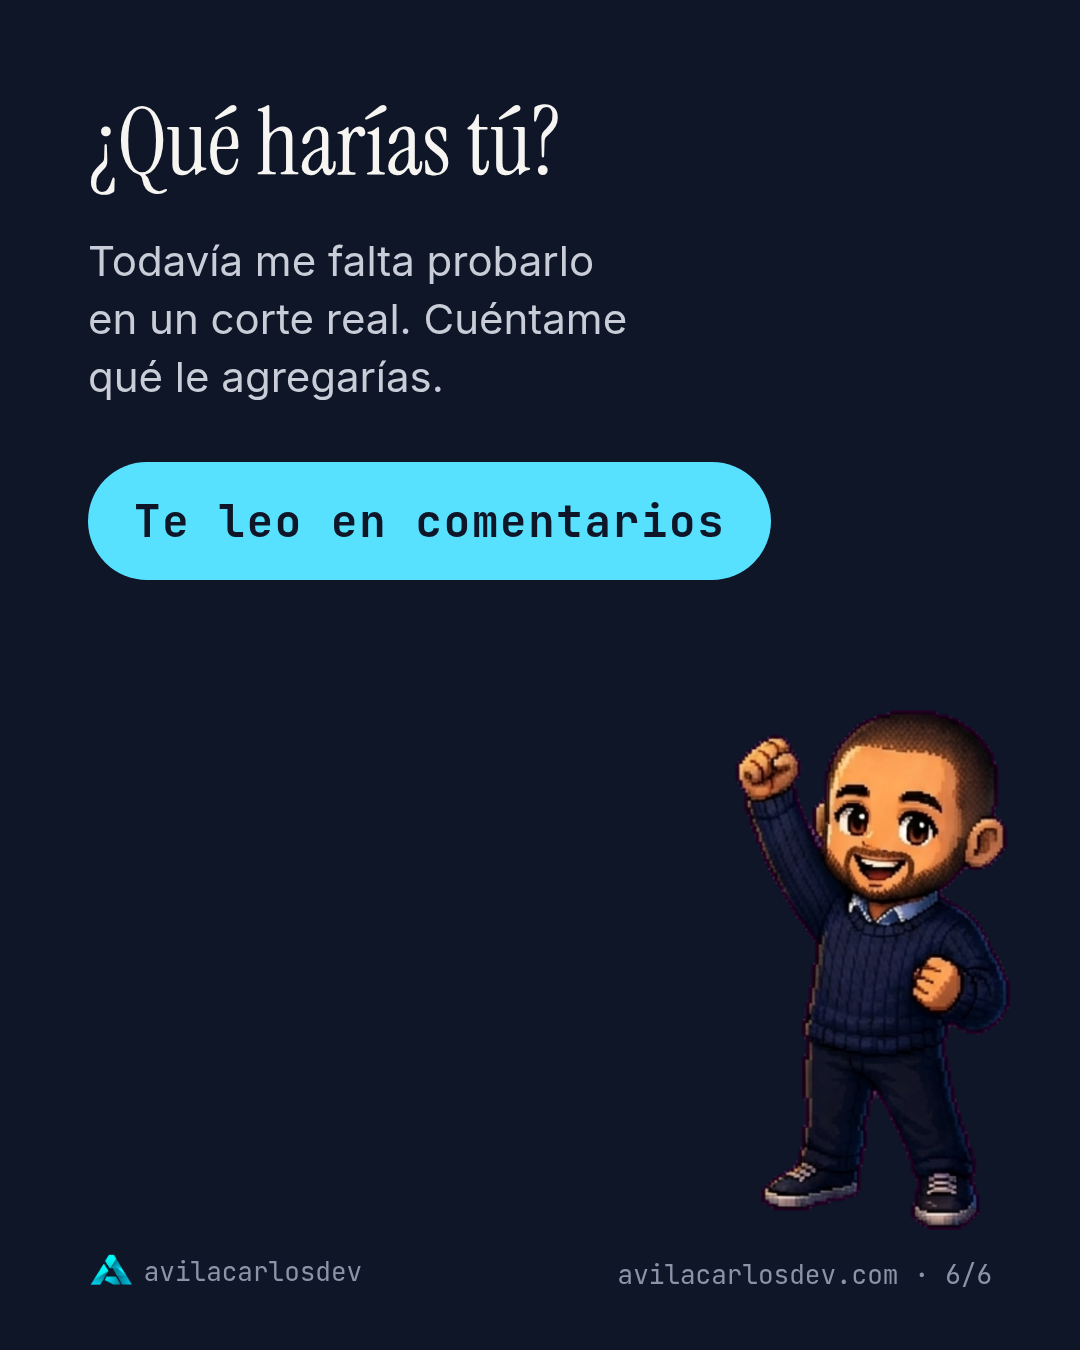
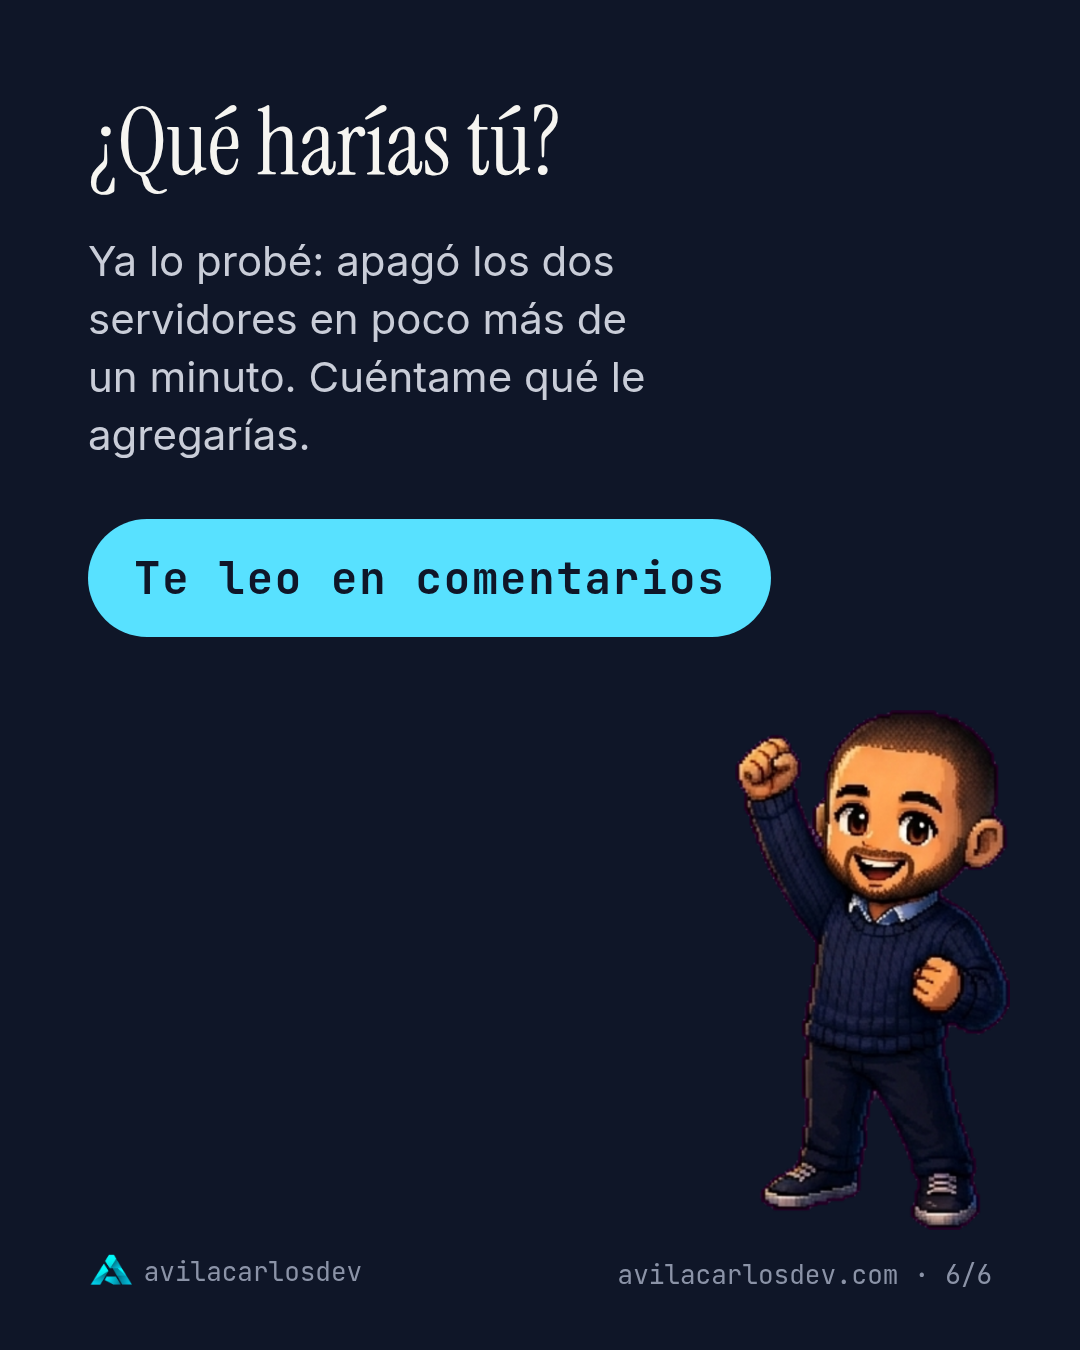
Corrige el post del Note 9: el apagado ya se probó

Changed region(s): [[0.0611, 0.1867, 0.7333, 0.4978]]

diff --git a/vista-previa-noviembre.html b/vista-previa-noviembre.html
@@ -30,7 +30,7 @@ main{max-width:520px;margin:0 auto;padding:20px 16px 60px;display:flex;flex-dire
 <header><h1>Vista previa · 6 al 13 de noviembre</h1><button class="on" data-f="todas">Todas</button><button data-f="instagram">Instagram</button><button data-f="facebook">Facebook</button><button data-f="linkedin">LinkedIn</button></header>
 <main id="m"></main>
 <script>
-const POSTS=[{"cuando": "Vie 6 · 19:00", "redes": ["instagram", "facebook"], "imgs": ["out/reels/reel2.jpg"], "nota": "reel ya editado · sale del borrador", "texto": "Mis automatizaciones no corren en la nube. n8n para los flujos, ListMonk para los correos y Postiz para programar publicaciones, todo autoalojado con Docker en un servidor en mi casa.\n\n¿Qué automatizarías tú si no tuvieras que pagar suscripción? Te leo en los comentarios.\n\nVideo con mi avatar y mi voz clonada con IA.\n\n#n8n #selfhosting #homelab #automatizacion #docker #opensource"}, {"cuando": "Lun 9 · 12:30", "redes": ["linkedin"], "imgs": ["out/09-actualizacion/01.png", "out/09-actualizacion/02.png", "out/09-actualizacion/03.png", "out/09-actualizacion/04.png", "out/09-actualizacion/05.png", "out/09-actualizacion/06.png"], "nota": "documento PDF", "texto": "El viernes actualicé las apps de mi homelab y se reiniciaron 40 contenedores sin que yo lo pidiera.\n\nIba servicio por servicio a propósito: respaldo primero, imagen descargada antes de parar nada, comprobación después de cada cambio y vuelta a la versión anterior si algo fallaba. El reinicio vino del paso que parecía inofensivo. Al actualizar el sistema del contenedor, apt también actualizó Docker, y el servicio se reinició con todo adentro. Los 40 volvieron solos, pero entre ellos había tres Nextcloud que yo hubiera preferido no tocar.\n\nEl trabajo lo ejecutó un agente de IA y las decisiones las tomé yo. Al revisar el respaldo apareció otro fallo: la base de Vaultwarden se había copiado con el servicio encendido, así que se repitió con el servicio parado.\n\nMi nota para la próxima es mirar si Docker está en la lista de paquetes antes de actualizar. ¿Tú separas esa actualización del resto del sistema?\n\n#homelab #docker #devops #selfhosting"}, {"cuando": "Lun 9 · 19:00", "redes": ["instagram", "facebook"], "imgs": ["out/09-actualizacion/01.png", "out/09-actualizacion/02.png", "out/09-actualizacion/03.png", "out/09-actualizacion/04.png", "out/09-actualizacion/05.png", "out/09-actualizacion/06.png"], "nota": "", "texto": "Iba con cuidado, servicio por servicio, y aun así se reiniciaron 40 contenedores. Actualizar el sistema también actualizó Docker. Todos volvieron solos, pero el susto me dejó tres cambios para la próxima.\n\nEn el carrusel está el método completo y los dos fallos. Lo ejecutó un agente de IA y las decisiones fueron mías.\n\n¿Vas servicio por servicio o lo lanzas todo de una?\n\n#homelab #docker #selfhosting #linux #devops"}, {"cuando": "Mar 10 · 12:30", "redes": ["linkedin"], "imgs": ["assets/logo-a.png"], "nota": "solo texto", "texto": "Mi tablero marcaba en rojo un DNS que funcionaba perfectamente.\n\nEra el DNS público de respaldo de mi red. La prueba abría una conexión TCP al puerto 53 y en 24 horas falló 69 veces, siempre un muestreo suelto. Bastaba un fallo para pintar la tarjeta de rojo, así que el tablero avisaba de una caída que nadie podía notar.\n\nHice dos cambios. La prueba ahora hace una consulta DNS real por UDP, igual que un cliente. Y la tarjeta solo se pone roja si falla el minuto completo, con max_over_time sobre probe_success en Prometheus.\n\nUn monitor que avisa sin motivo termina ignorado, y ahí es cuando una caída real pasa de largo. Por eso reviso las alertas falsas con la misma seriedad que las verdaderas.\n\n#prometheus #grafana #homelab #observabilidad"}, {"cuando": "Mié 11 · 12:30", "redes": ["linkedin"], "imgs": ["out/10-note9/01.png", "out/10-note9/02.png", "out/10-note9/03.png", "out/10-note9/04.png", "out/10-note9/05.png", "out/10-note9/06.png"], "nota": "documento PDF · falta confirmar UPS", "texto": "Un Galaxy Note 9 vigila mis servidores.\n\nCada minuto comprueba 28 servicios y me avisa por Telegram a la segunda falla. Cuando se va la luz, su batería lo mantiene despierto: si pasa 120 segundos sin cargar, apaga los servidores uno detrás del otro por SSH. Los cortes cortos no cuentan.\n\nLo que más cuidé fue la clave. Solo puede ejecutar un script, y ese script solo acepta dos órdenes: prueba y apagar. No sirve para abrir una consola en el servidor.\n\nLa orden de prueba responde en los dos servidores. Todavía me falta verlo funcionar en un corte real, así que acepto ideas de lo que le agregarías.\n\n#homelab #linux #ssh #selfhosting"}, {"cuando": "Mié 11 · 19:00", "redes": ["instagram", "facebook"], "imgs": ["out/10-note9/01.png", "out/10-note9/02.png", "out/10-note9/03.png", "out/10-note9/04.png", "out/10-note9/05.png", "out/10-note9/06.png"], "nota": "falta confirmar UPS", "texto": "Le di trabajo a un Note 9: vigila 28 servicios cada minuto y, si se va la luz, apaga mis servidores en orden.\n\nLa clave que usa solo sabe hacer eso. Todavía me falta probarlo en un corte real. ¿Qué le agregarías?\n\n#homelab #selfhosting #android #termux #linux"}, {"cuando": "Jue 12 · 19:00", "redes": ["instagram", "facebook"], "imgs": ["out/reels/reel1.jpg"], "nota": "reel ya editado · texto ajustado", "texto": "No necesitas una 4090 para tener IA en casa. Lo medí en una RX 580 de 8 GB del 2017: 99 tokens por segundo en el modelo más rápido y 21 en uno de 30B.\n\nComenta RX580 y te paso el repositorio con todos los benchmarks.\n\nVideo con mi avatar y mi voz clonada con IA.\n\n#ialocal #inteligenciaartificial #homelab #amd #llamacpp #opensource"}, {"cuando": "Vie 13 · 19:00", "redes": ["instagram", "facebook", "linkedin"], "imgs": ["out/reels/reel3.jpg"], "nota": "reel ya editado · se mueve del lun 9", "texto": "Un solo error de permisos puede mostrarle a un cliente los datos de todos los demás. Por eso Forja, mi app para entrenadores personales, tiene 109 pruebas solo de permisos, sobre Supabase con seguridad por fila.\n\nCuando construyo algo para un cliente, empiezo por aquí.\n\nVideo con mi avatar y mi voz clonada con IA.\n\n#supabase #ciberseguridad #react #testing #desarrolloweb"}];
+const POSTS=[{"cuando": "Vie 6 · 19:00", "redes": ["instagram", "facebook"], "imgs": ["out/reels/reel2.jpg"], "nota": "reel ya editado · sale del borrador", "texto": "Mis automatizaciones no corren en la nube. n8n para los flujos, ListMonk para los correos y Postiz para programar publicaciones, todo autoalojado con Docker en un servidor en mi casa.\n\n¿Qué automatizarías tú si no tuvieras que pagar suscripción? Te leo en los comentarios.\n\nVideo con mi avatar y mi voz clonada con IA.\n\n#n8n #selfhosting #homelab #automatizacion #docker #opensource"}, {"cuando": "Lun 9 · 12:30", "redes": ["linkedin"], "imgs": ["out/09-actualizacion/01.png", "out/09-actualizacion/02.png", "out/09-actualizacion/03.png", "out/09-actualizacion/04.png", "out/09-actualizacion/05.png", "out/09-actualizacion/06.png"], "nota": "documento PDF", "texto": "El viernes actualicé las apps de mi homelab y se reiniciaron 40 contenedores sin que yo lo pidiera.\n\nIba servicio por servicio a propósito: respaldo primero, imagen descargada antes de parar nada, comprobación después de cada cambio y vuelta a la versión anterior si algo fallaba. El reinicio vino del paso que parecía inofensivo. Al actualizar el sistema del contenedor, apt también actualizó Docker, y el servicio se reinició con todo adentro. Los 40 volvieron solos, pero entre ellos había tres Nextcloud que yo hubiera preferido no tocar.\n\nEl trabajo lo ejecutó un agente de IA y las decisiones las tomé yo. Al revisar el respaldo apareció otro fallo: la base de Vaultwarden se había copiado con el servicio encendido, así que se repitió con el servicio parado.\n\nMi nota para la próxima es mirar si Docker está en la lista de paquetes antes de actualizar. ¿Tú separas esa actualización del resto del sistema?\n\n#homelab #docker #devops #selfhosting"}, {"cuando": "Lun 9 · 19:00", "redes": ["instagram", "facebook"], "imgs": ["out/09-actualizacion/01.png", "out/09-actualizacion/02.png", "out/09-actualizacion/03.png", "out/09-actualizacion/04.png", "out/09-actualizacion/05.png", "out/09-actualizacion/06.png"], "nota": "", "texto": "Iba con cuidado, servicio por servicio, y aun así se reiniciaron 40 contenedores. Actualizar el sistema también actualizó Docker. Todos volvieron solos, pero el susto me dejó tres cambios para la próxima.\n\nEn el carrusel está el método completo y los dos fallos. Lo ejecutó un agente de IA y las decisiones fueron mías.\n\n¿Vas servicio por servicio o lo lanzas todo de una?\n\n#homelab #docker #selfhosting #linux #devops"}, {"cuando": "Mar 10 · 12:30", "redes": ["linkedin"], "imgs": ["assets/logo-a.png"], "nota": "solo texto", "texto": "Mi tablero marcaba en rojo un DNS que funcionaba perfectamente.\n\nEra el DNS público de respaldo de mi red. La prueba abría una conexión TCP al puerto 53 y en 24 horas falló 69 veces, siempre un muestreo suelto. Bastaba un fallo para pintar la tarjeta de rojo, así que el tablero avisaba de una caída que nadie podía notar.\n\nHice dos cambios. La prueba ahora hace una consulta DNS real por UDP, igual que un cliente. Y la tarjeta solo se pone roja si falla el minuto completo, con max_over_time sobre probe_success en Prometheus.\n\nUn monitor que avisa sin motivo termina ignorado, y ahí es cuando una caída real pasa de largo. Por eso reviso las alertas falsas con la misma seriedad que las verdaderas.\n\n#prometheus #grafana #homelab #observabilidad"}, {"cuando": "Mié 11 · 12:30", "redes": ["linkedin"], "imgs": ["out/10-note9/01.png", "out/10-note9/02.png", "out/10-note9/03.png", "out/10-note9/04.png", "out/10-note9/05.png", "out/10-note9/06.png"], "nota": "documento PDF", "texto": "Un Galaxy Note 9 vigila mis servidores.\n\nCada minuto comprueba 28 servicios y me avisa por Telegram a la segunda falla. Cuando se va la luz, su batería lo mantiene despierto: si pasa 120 segundos sin cargar, apaga los servidores uno detrás del otro por SSH. Los cortes cortos no cuentan.\n\nLo que más cuidé fue la clave. Solo puede ejecutar un script, y ese script solo acepta dos órdenes: prueba y apagar. No sirve para abrir una consola en el servidor.\n\nYa lo probé: apagó los dos servidores en poco más de un minuto. ¿Qué le agregarías?\n\n#homelab #linux #ssh #selfhosting"}, {"cuando": "Mié 11 · 19:00", "redes": ["instagram", "facebook"], "imgs": ["out/10-note9/01.png", "out/10-note9/02.png", "out/10-note9/03.png", "out/10-note9/04.png", "out/10-note9/05.png", "out/10-note9/06.png"], "nota": "", "texto": "Le di trabajo a un Note 9: vigila 28 servicios cada minuto y, si se va la luz, apaga mis servidores en orden.\n\nLa clave que usa solo sabe hacer eso. Ya lo probé y apagó los dos en poco más de un minuto. ¿Qué le agregarías?\n\n#homelab #selfhosting #android #termux #linux"}, {"cuando": "Jue 12 · 19:00", "redes": ["instagram", "facebook"], "imgs": ["out/reels/reel1.jpg"], "nota": "reel ya editado · texto ajustado", "texto": "No necesitas una 4090 para tener IA en casa. Lo medí en una RX 580 de 8 GB del 2017: 99 tokens por segundo en el modelo más rápido y 21 en uno de 30B.\n\nComenta RX580 y te paso el repositorio con todos los benchmarks.\n\nVideo con mi avatar y mi voz clonada con IA.\n\n#ialocal #inteligenciaartificial #homelab #amd #llamacpp #opensource"}, {"cuando": "Vie 13 · 19:00", "redes": ["instagram", "facebook", "linkedin"], "imgs": ["out/reels/reel3.jpg"], "nota": "reel ya editado · se mueve del lun 9", "texto": "Un solo error de permisos puede mostrarle a un cliente los datos de todos los demás. Por eso Forja, mi app para entrenadores personales, tiene 109 pruebas solo de permisos, sobre Supabase con seguridad por fila.\n\nCuando construyo algo para un cliente, empiezo por aquí.\n\nVideo con mi avatar y mi voz clonada con IA.\n\n#supabase #ciberseguridad #react #testing #desarrolloweb"}];
 const NOM={instagram:'avilacarlosdev',facebook:'Avila Carlos Dev',linkedin:'Carlos Avila'};
 const m=document.getElementById('m');
 function esc(s){return s.replace(/[&<>]/g,c=>({'&':'&amp;','<':'&lt;','>':'&gt;'}[c]))}

diff --git a/generar.py b/generar.py
@@ -321,7 +321,7 @@ CARRUSELES = {
             "La clave SSH del teléfono solo puede ejecutar un script",
             "Ese script acepta dos órdenes: *prueba* y *apagar*",
             "La clave no sirve para abrir una consola en el servidor"]),
-        cierre("¿Qué harías tú?", "Todavía me falta probarlo en un corte real. Cuéntame qué le agregarías.",
+        cierre("¿Qué harías tú?", "Ya lo probé: apagó los dos servidores en poco más de un minuto. Cuéntame qué le agregarías.",
                mascota="celebrando.png", chip="Te leo en comentarios"),
     ],
 }

diff --git a/calendario-noviembre.md b/calendario-noviembre.md
@@ -1,6 +1,6 @@
 # Semana del 6 al 13 de noviembre de 2026 (hora de Caracas)
 
-Estado: borrador para revisar. Nada programado todavía.
+Estado: programado en Metricool el 2026-11-06.
 
 | Cuándo | Red | Pieza |
 |---|---|---|
@@ -8,8 +8,8 @@ Estado: borrador para revisar. Nada programado todavía.
 | Lun 9 · 12:30 | linkedin | documento PDF |
 | Lun 9 · 19:00 | instagram + facebook | carrusel |
 | Mar 10 · 12:30 | linkedin | solo texto |
-| Mié 11 · 12:30 | linkedin | documento PDF · falta confirmar UPS |
-| Mié 11 · 19:00 | instagram + facebook | falta confirmar UPS |
+| Mié 11 · 12:30 | linkedin | documento PDF |
+| Mié 11 · 19:00 | instagram + facebook | carrusel |
 | Jue 12 · 19:00 | instagram + facebook | reel ya editado · texto ajustado |
 | Vie 13 · 19:00 | instagram + facebook + linkedin | reel ya editado · se mueve del lun 9 |
 
@@ -65,7 +65,7 @@ Cada minuto comprueba 28 servicios y me avisa por Telegram a la segunda falla. C
 
 Lo que más cuidé fue la clave. Solo puede ejecutar un script, y ese script solo acepta dos órdenes: prueba y apagar. No sirve para abrir una consola en el servidor.
 
-La orden de prueba responde en los dos servidores. Todavía me falta verlo funcionar en un corte real, así que acepto ideas de lo que le agregarías.
+Ya lo probé: apagó los dos servidores en poco más de un minuto. ¿Qué le agregarías?
 
 #homelab #linux #ssh #selfhosting
 
@@ -73,7 +73,7 @@ La orden de prueba responde en los dos servidores. Todavía me falta verlo funci
 
 Le di trabajo a un Note 9: vigila 28 servicios cada minuto y, si se va la luz, apaga mis servidores en orden.
 
-La clave que usa solo sabe hacer eso. Todavía me falta probarlo en un corte real. ¿Qué le agregarías?
+La clave que usa solo sabe hacer eso. Ya lo probé y apagó los dos en poco más de un minuto. ¿Qué le agregarías?
 
 #homelab #selfhosting #android #termux #linux
 
